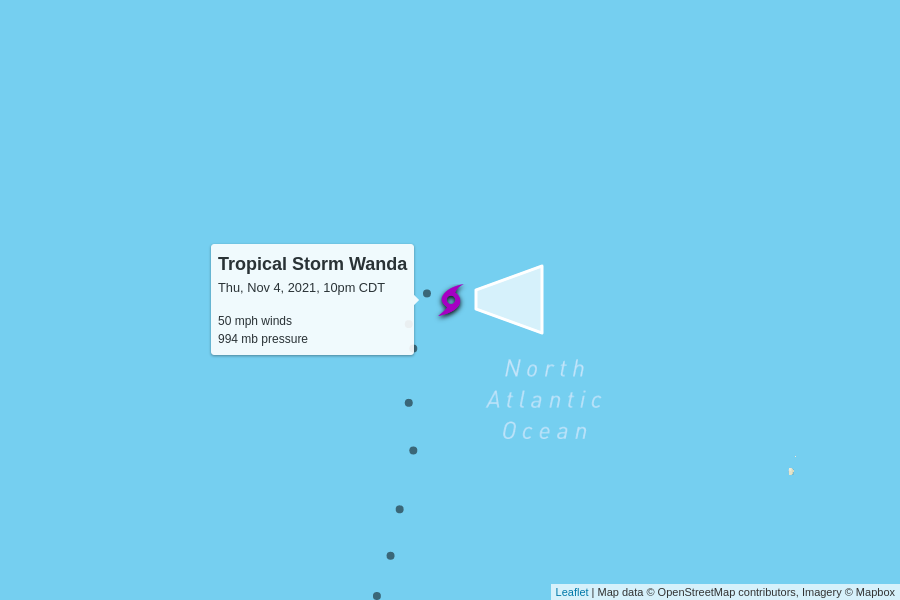
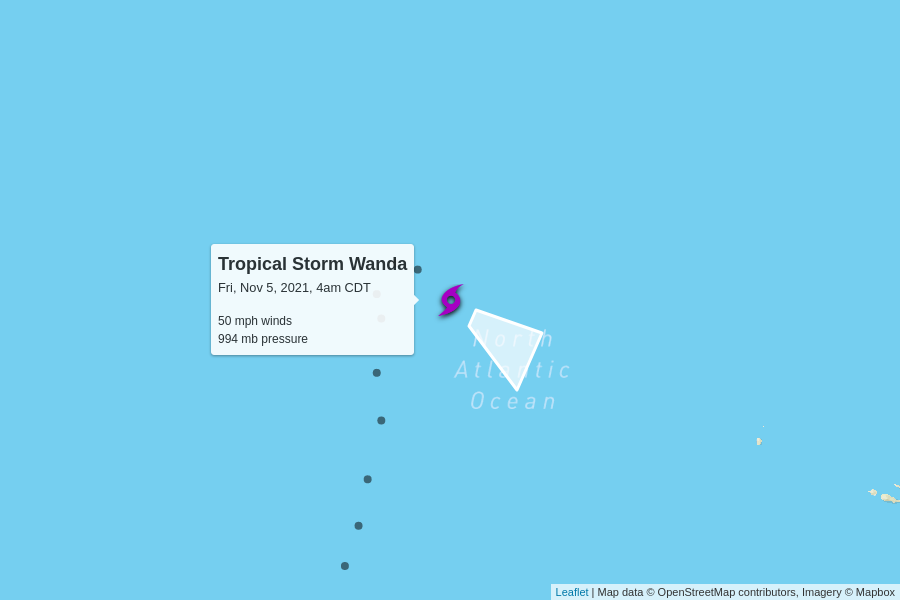
automatic update

diff --git a/docs/index.html b/docs/index.html
@@ -100,7 +100,7 @@
         <td colspan="6" class="storm category-0" >
           <h2>
             Tropical Storm Wanda
-            <p class="updated">last updated <span data-time>2021-11-05T03:00:00.000Z</span></p>
+            <p class="updated">last updated <span data-time>2021-11-05T09:00:00.000Z</span></p>
           </h2>
         </td>
       </tr>
@@ -118,9 +118,9 @@
         <td>50 mph</td>
         <td>994 mb</td>
         <td>
-          5 mph to the east
+          6 mph to the east-southeast
           <br/>
-          <span style="display: inline-block; font-size: 1.5em; transform: rotate(90deg);">↑</span>
+          <span style="display: inline-block; font-size: 1.5em; transform: rotate(120deg);">↑</span>
         </td>
         <td><a href="https://raw.githubusercontent.com/mgwalker/atlantic-hurricanes/main/data/csv/AL212021.csv">AL212021.csv</a></td>
         <td><a href="https://www.nhc.noaa.gov/archive/2021/WANDA.shtml?">NHC advisories</a></td>
